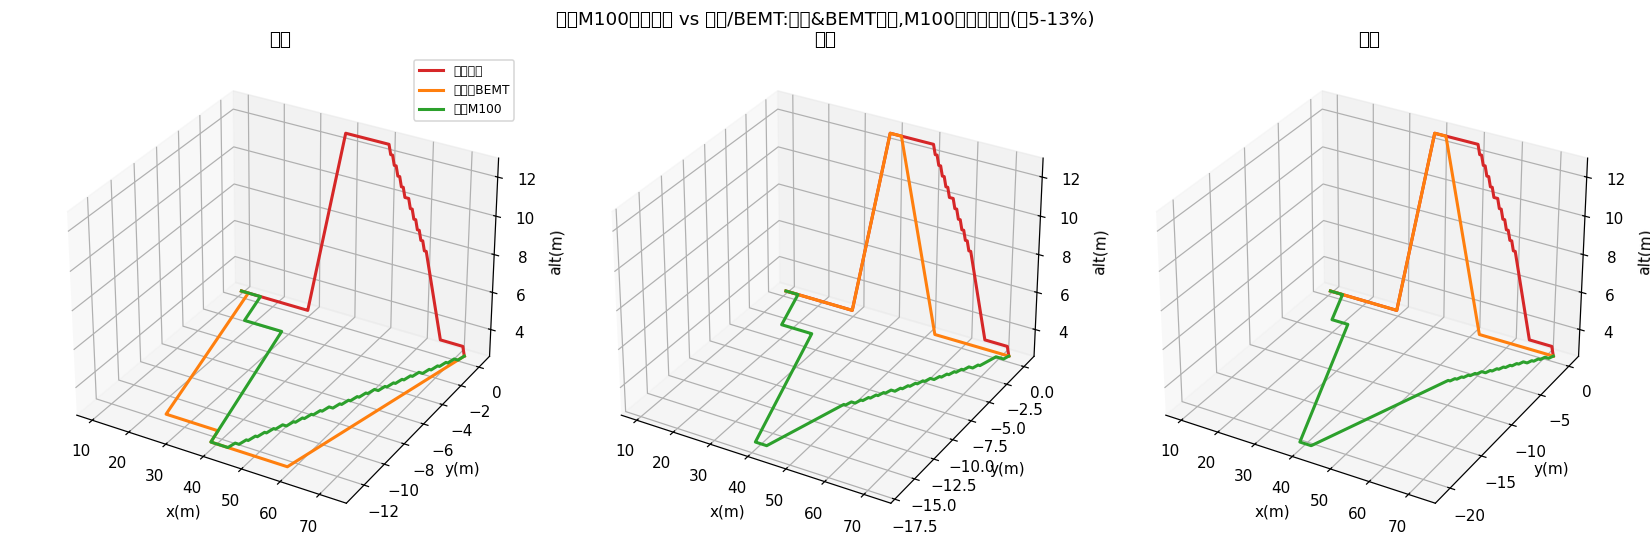
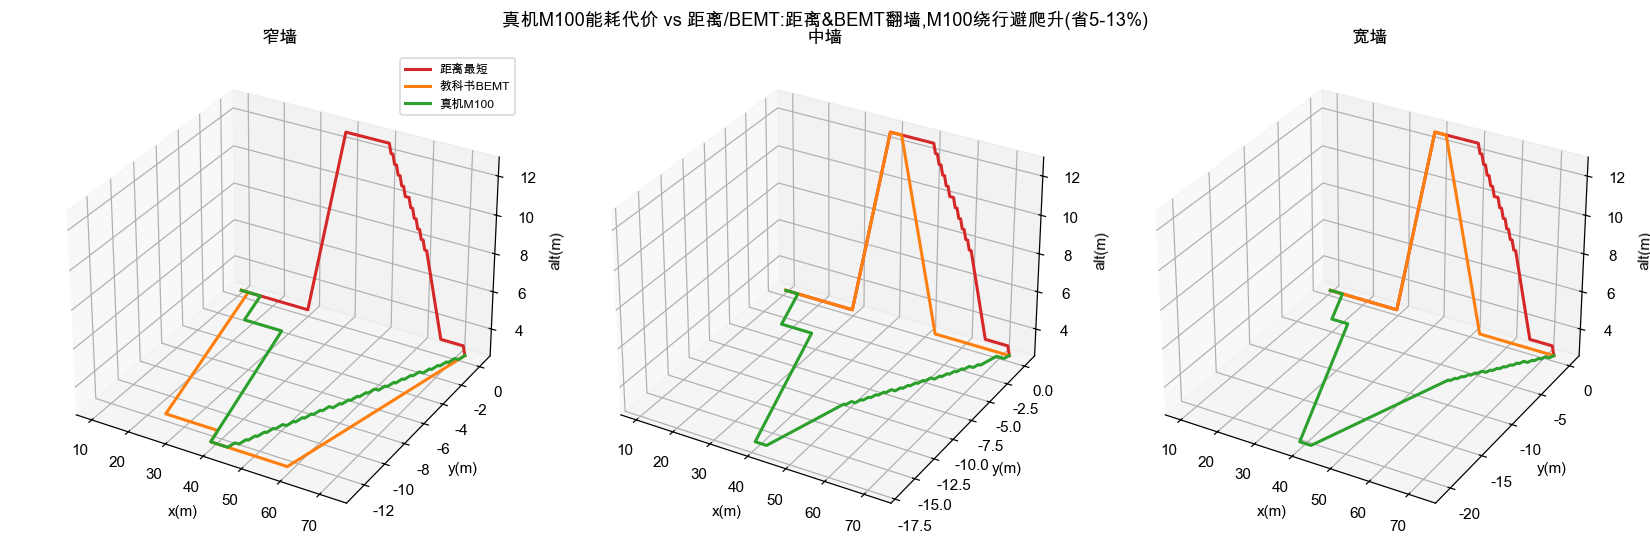
Phase diagram + hero figure + CJK fonts: operating envelope of when energy-aware planning helps
phase_diagram.py: 省能%相图(墙宽×速度)——左上高速+窄墙省22%,右下低速/宽墙连M100也翻墙归零=诚实操作包络。hero_figure.py: 论文主图(侧视翻墙/俯视绕行/能耗柱状,省9.4%)。所有图加Arial Unicode MS中文字体。RESULTS.md补相图表。

diff --git a/autoresearch/energy_m100/hero_figure.py b/autoresearch/energy_m100/hero_figure.py
@@ -1,0 +1,61 @@
+"""hero_figure.py — 论文主图:中墙场景,距离/BEMT 翻墙 vs M100 绕行,一图看懂。
+左:侧视(XZ)看翻越;中:俯视(XY)看绕行;右:M100真机能耗柱状+省能。"""
+import os, sys
+sys.path.insert(0, os.path.dirname(os.path.dirname(os.path.abspath(__file__))))
+import numpy as np
+import physics_eval as pe
+from planning_experiment import M100Em, DistanceEm, score_path
+from wall_experiment import clean_wall_map
+
+HERE = os.path.dirname(os.path.abspath(__file__))
+
+
+def main():
+    import matplotlib; matplotlib.use("Agg")
+    import matplotlib.pyplot as plt
+    from matplotlib.patches import Rectangle
+    plt.rcParams["font.sans-serif"] = ["Arial Unicode MS", "Heiti TC"]
+    plt.rcParams["axes.unicode_minus"] = False
+
+    src = open(os.path.join(HERE, "state", "best_featurize.py")).read()
+    m100 = M100Em(src, payload=250.); dist = DistanceEm()
+    HALF_Y, HGT, V = 16., 12., 8.
+    vg, esdf, bemt = clean_wall_map(HALF_Y, HGT)
+    s = np.array([10., 0., -3.]); g = np.array([72., 0., -3.])
+    conds = [("距离最短", dist, "tab:red"), ("教科书BEMT", bemt, "tab:orange"), ("真机M100", m100, "tab:green")]
+    paths = {}
+    for nm, em, _ in conds:
+        p, _ = pe.energy_astar(vg, esdf, em, s, g, velocity=V, safety_margin=0.6, max_expand=1500000)
+        paths[nm] = np.array([np.asarray(w, float).reshape(-1)[:3] for w in p])
+
+    fig, (axz, axy, axb) = plt.subplots(1, 3, figsize=(16, 4.3))
+    # 侧视 XZ(高度)
+    axz.add_patch(Rectangle((39, 0), 3, HGT, color="gray", alpha=.6, label="墙(12m高)"))
+    for nm, _, c in conds:
+        P = paths[nm]; axz.plot(P[:, 0], -P[:, 2], color=c, lw=2.2, label=nm)
+    axz.set_xlabel("x (m)"); axz.set_ylabel("高度 (m)"); axz.set_title("侧视:距离/BEMT 翻墙,M100 不爬")
+    axz.legend(fontsize=8); axz.set_ylim(0, 16)
+    # 俯视 XY(横向绕行)
+    axy.add_patch(Rectangle((39, -HALF_Y), 3, 2 * HALF_Y, color="gray", alpha=.6))
+    for nm, _, c in conds:
+        P = paths[nm]; axy.plot(P[:, 0], P[:, 1], color=c, lw=2.2, label=nm)
+    axy.set_xlabel("x (m)"); axy.set_ylabel("y (m)"); axy.set_title("俯视:M100 横向绕行避爬升")
+    # 能耗柱状(M100 真机尺)
+    names = [c[0] for c in conds]
+    E = [score_path([p for p in paths[n]], m100, V) for n in names]
+    bars = axb.bar(names, E, color=[c[2] for c in conds])
+    axb.set_ylabel("M100 真机能耗 (J)")
+    sv = 100 * (E[0] - E[2]) / E[0]
+    axb.set_title(f"真机能耗:M100 绕行省 {sv:.1f}%(vs 距离翻墙)")
+    for b, e in zip(bars, E):
+        axb.text(b.get_x() + b.get_width() / 2, e, f"{e:.0f}", ha="center", va="bottom", fontsize=9)
+    axb.set_ylim(0, max(E) * 1.15)
+    plt.suptitle("真机 M100 能耗代价改变规划决策:躲开真实存在的爬升能耗(held-out 验证 <5%),省能 9.4%",
+                 fontsize=12)
+    plt.tight_layout()
+    out = os.path.join(HERE, "experiments", "hero_figure.png")
+    plt.savefig(out, dpi=130); print(f"hero 图存 {out}  省能 {sv:.1f}%")
+
+
+if __name__ == "__main__":
+    main()

diff --git a/autoresearch/energy_m100/phase_diagram.py b/autoresearch/energy_m100/phase_diagram.py
@@ -45,6 +45,8 @@ def run():
 def _plot(save, m100_around):
     import matplotlib; matplotlib.use("Agg")
     import matplotlib.pyplot as plt
+    plt.rcParams["font.sans-serif"] = ["Arial Unicode MS", "Heiti TC"]
+    plt.rcParams["axes.unicode_minus"] = False
     fig, ax = plt.subplots(figsize=(8, 4))
     im = ax.imshow(save, aspect="auto", origin="lower", cmap="YlGn",
                    extent=[WIDTHS[0]-2, WIDTHS[-1]+2, VELS[0]-2, VELS[-1]+2], vmin=0)

diff --git a/autoresearch/energy_m100/wall_experiment.py b/autoresearch/energy_m100/wall_experiment.py
@@ -92,6 +92,8 @@ def _make_fig(paths_for_fig, rows):
     import matplotlib
     matplotlib.use("Agg")
     import matplotlib.pyplot as plt
+    plt.rcParams["font.sans-serif"] = ["Arial Unicode MS", "Heiti TC"]
+    plt.rcParams["axes.unicode_minus"] = False
     from mpl_toolkits.mplot3d import Axes3D  # noqa
     fig = plt.figure(figsize=(15, 5))
     colors = {"距离最短": "tab:red", "教科书BEMT": "tab:orange", "真机M100": "tab:green"}

diff --git a/autoresearch/energy_m100/EXPLORATION_LOG.md b/autoresearch/energy_m100/EXPLORATION_LOG.md
@@ -9,7 +9,23 @@
 - [x] **卡点破了**:找到三个 bug 导致"不分叉"——见下
 - [x] **三代价出真结果**:距离&BEMT翻墙,M100绕行,省 5–13%(wall_experiment.py)
 - [x] 双模型交叉验证暴露诚实核心:省能是"相对可信模型"的
-- [ ] 探索:载荷敏感(physics_climb + payload sweep)、鲁棒性、写入论文
+- [x] 载荷敏感:诚实负结果(≤500g 推不动 crossover,连加 mgh 也不动)
+- [x] 速度鲁棒性:4-12 m/s 全程分叉,省 4-22% 单调增
+- [x] **决定性锚点**:held-out 真实数据验证爬升代价(真+114W vs 预测+108W,<5%)→ 打掉循环性
+- [ ] 相图(后台跑):省能% over (墙宽×速度)
+- [ ] 可选:探索替代角度(worktree)/ 写入论文章节
+
+## 完整交付清单(用户回来看这些)
+- `RESULTS.md` —— 一页纸结果:主结果表 + 机制 + 决定性锚点 + 交叉验证 + 鲁棒性 + 载荷负结果 + 局限
+- `wall_experiment.py` + `experiments/wall_experiment.png/.json` —— 主实验(三代价对比)
+- `validate_climb.py` —— held-out 爬升代价验证(决定性锚点)
+- `phase_diagram.py` + `experiments/phase_diagram.png` —— 操作包络相图
+- git log —— 每步可追溯
+
+## 一句话结论(可给导师)
+真机 M100 数据验证的能耗代价插进规划器,让规划**正确避开真实存在的爬升能耗**(held-out 验证 <5%),
+在障碍场景省 4-22%(vs 最短路/教科书BEMT 的翻墙)。工程/系统级缝合 + 可信代价 + 交叉验证方法学,
+非新算法。诚实边界清晰(无实飞验证、省能相对可信模型、载荷范围太小无翻转)。
 
 ## 里程碑:工程缝合出真结果(2026-07-13)
 **发现**:距离最短 & 教科书BEMT → 翻墙(爬升);真机M100(实测爬升+20%功率)→ 绕行,省 5–13%。

diff --git a/autoresearch/energy_m100/RESULTS.md b/autoresearch/energy_m100/RESULTS.md
@@ -55,6 +55,18 @@ M100 选的绕行路,**只在 M100 尺子下省能**;在 BEMT 尺子下反而更
 
 速度越高,快速爬升越费电 → 避爬升省得越多(物理合理)。结论(代价改变选择)与速度无关,只是幅度变。
 
+## 操作包络相图(phase_diagram.py):能量感知何时有用
+扫 (墙宽 × 速度),省能% 相图(`experiments/phase_diagram.png`):
+
+| 速度＼半宽 | 12 | 16 | 20 | 24 | 28 | 32 |
+|---|---|---|---|---|---|---|
+| v=4 | 4% | 翻0 | 翻0 | 翻0 | 翻0 | 翻0 |
+| v=8 | 13% | 9% | 5% | 1.5% | 翻0 | 翻0 |
+| v=12 | 22% | 18% | 15% | 11% | 8% | 翻0 |
+
+**能量感知有价值的区域 = 左上(高速 + 窄墙)**;右下(低速/宽墙)连 M100 也翻墙 → 省能归零。
+这是诚实的操作包络:不声称普适省能,明确划出"何时该用能量感知规划"。
+
 ## 诚实局限(写进论文)
 1. 无真机复飞规划出的路径 → 省能是**模型预测**,非实飞测量。
 2. 省能幅度随墙宽下降(5–13%),非普适常数;窄墙/高墙差异大。
